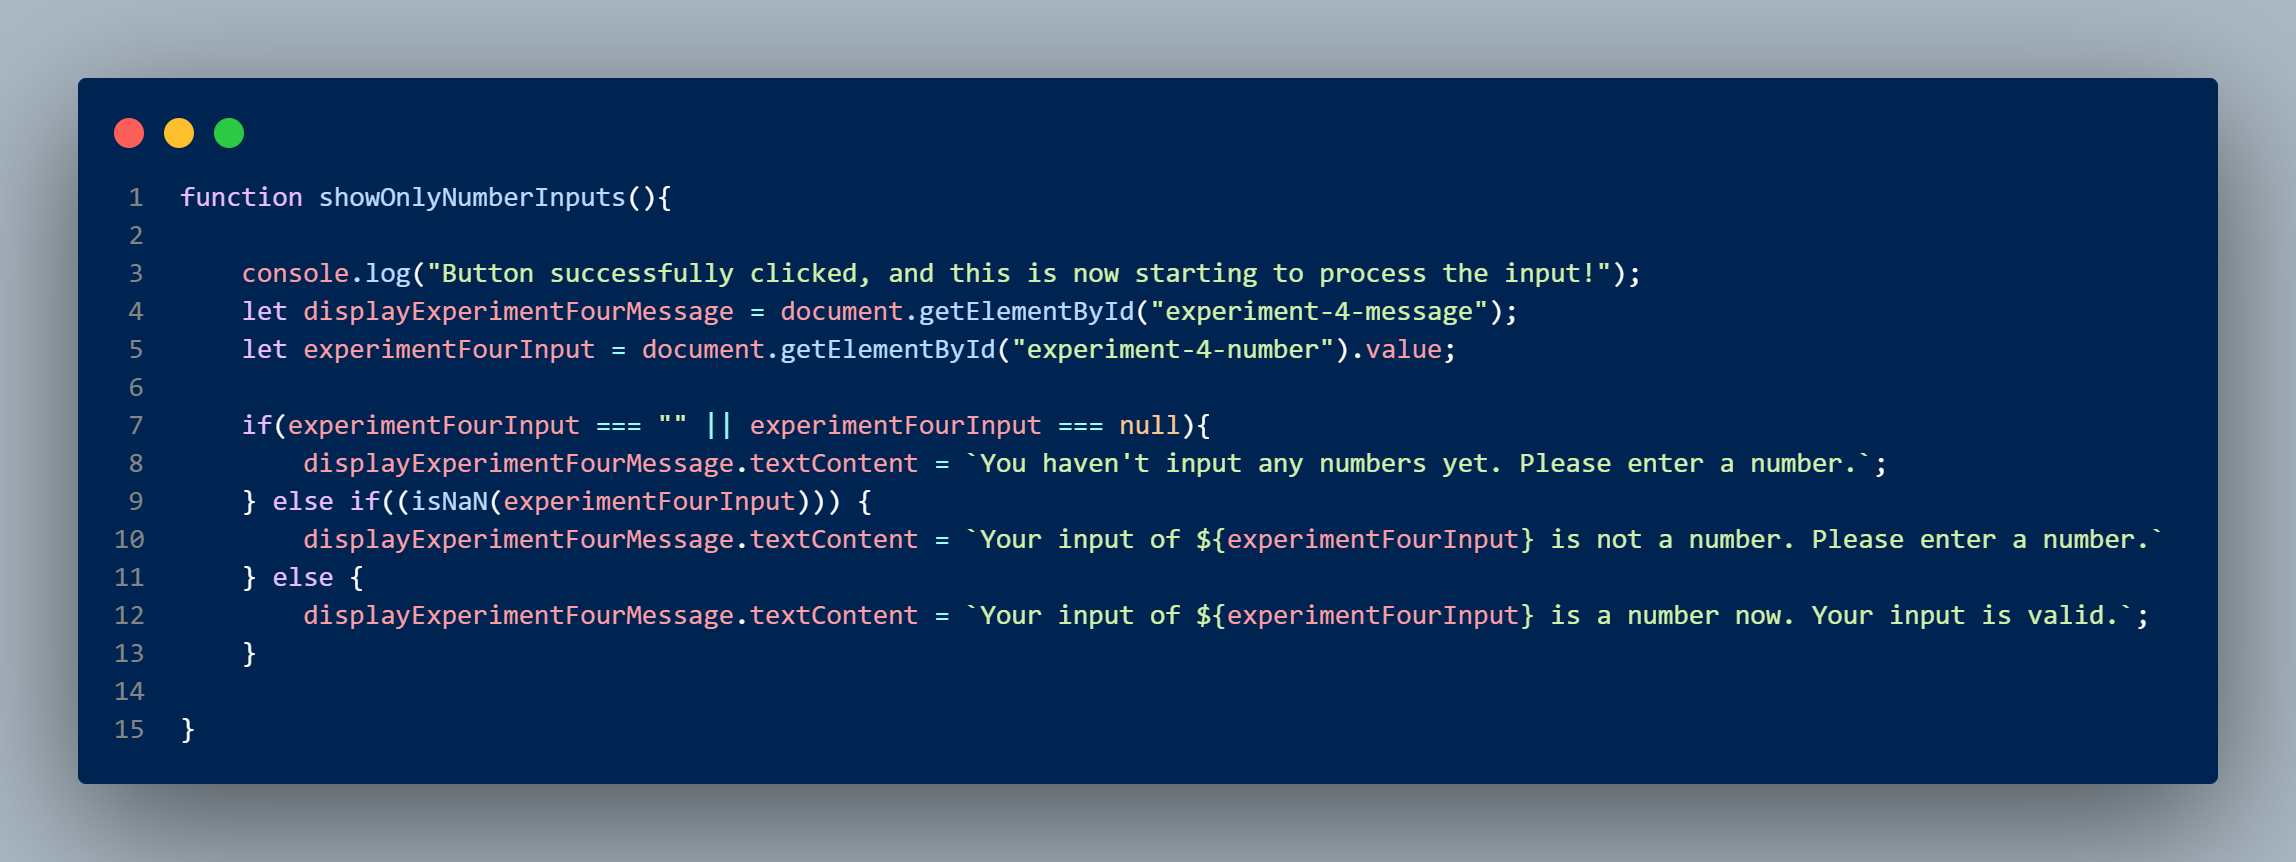
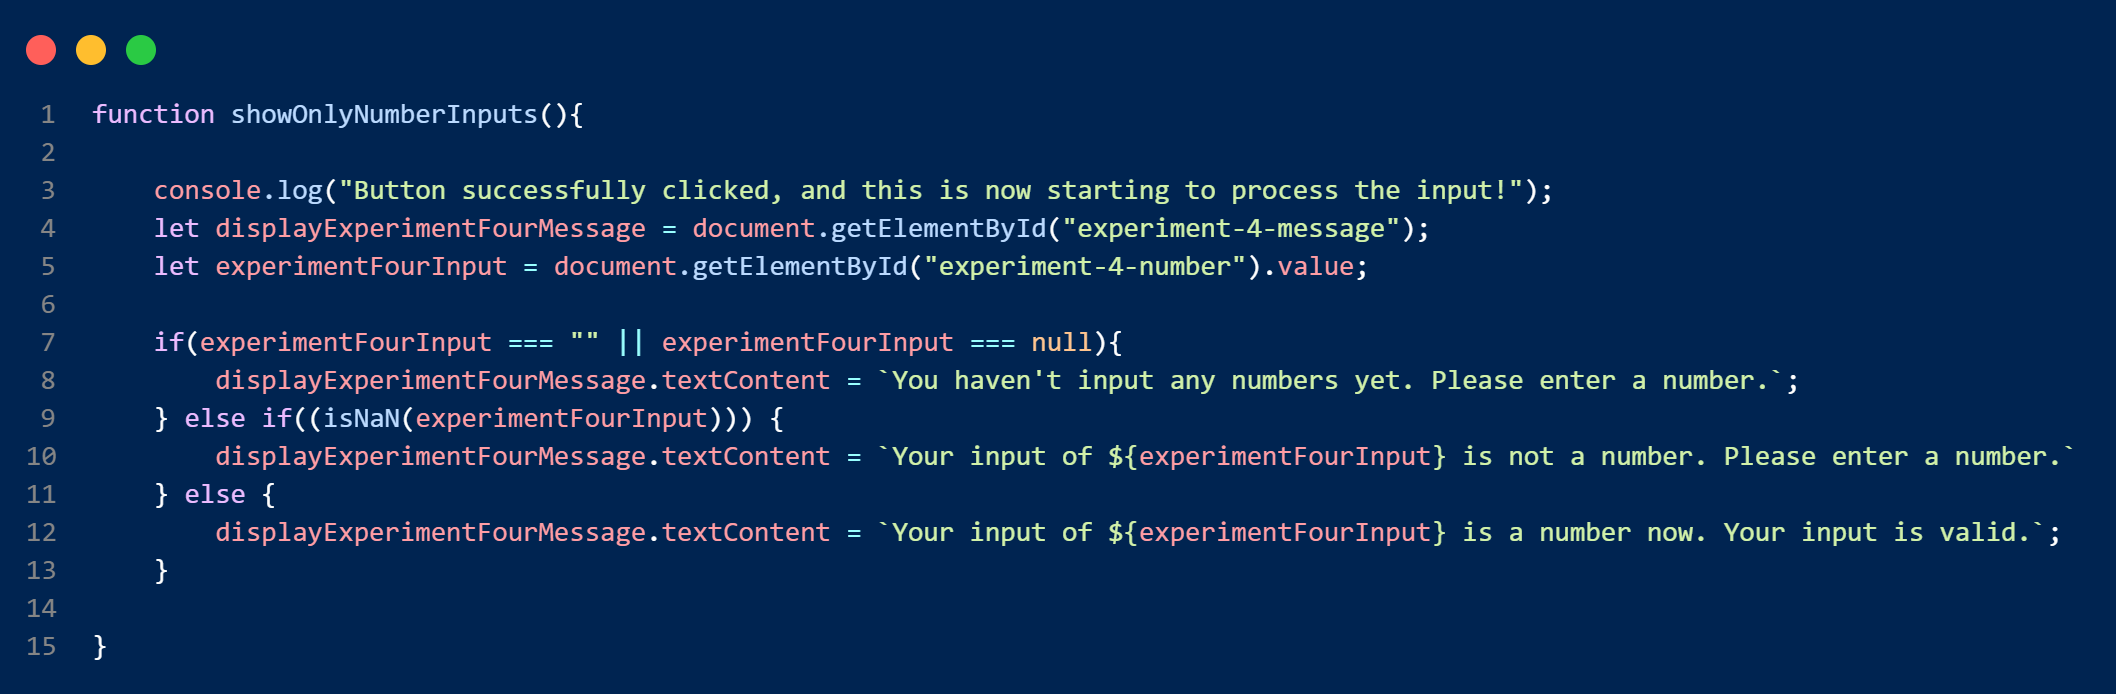
Added Experiment 4 code snippet in Experiment 4's card!

diff --git a/index.html b/index.html
@@ -196,6 +196,13 @@
                 <p id="experiment-4-message"></p>
             </aside>
 
+            <section class="code-snippets">
+                <h2>Experiment 4's Code</h2>
+
+                <h3>Processing Input and Determining whether it's empty, not a number, or is a number, and Adding an Event Listener to Experiment 4</h3>
+                <img src="./Code Snippets/Experiment 4/Experiment 4 Code Snippet JavaScript Code.png" class="code-snippet">
+            </section>
+
             <div> 
                 <h3>For the following code:</h3>
                 <h4>Index.html code</h2>
